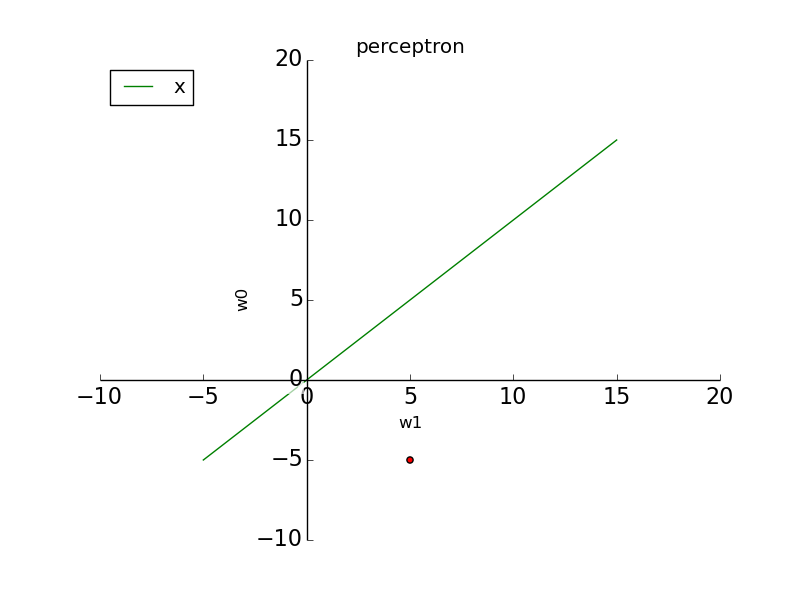
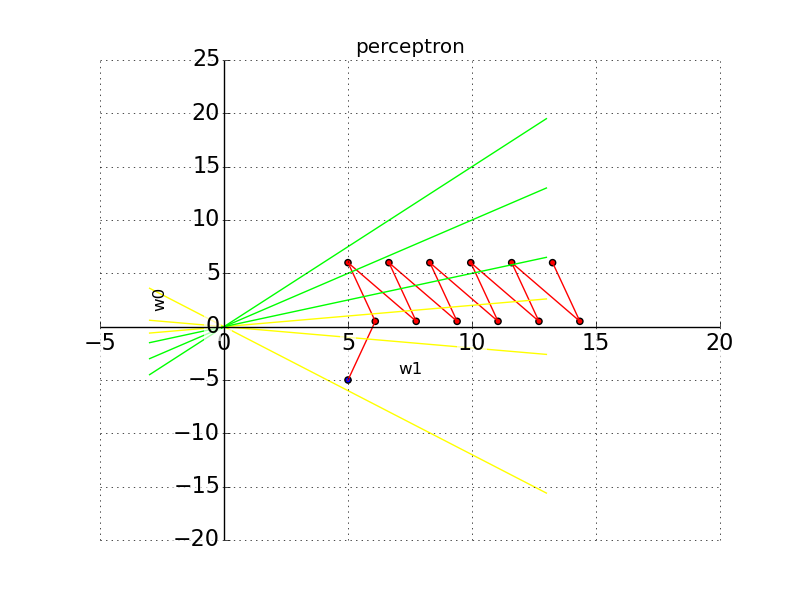
finish perceptron

diff --git a/perceptron/perceptron.py b/perceptron/perceptron.py
@@ -8,42 +8,65 @@ import numpy as np
 import matplotlib.pyplot as plt
 
 def g(X, W):
-    return W[0] + X * W[1]
+    v = 0
+    for i in range(len(W)):
+        v += W[i] * X[i]
+    return v
     
 if __name__ == '__main__':
     
-    X = [[1.2, 1], [0.2, 1], [-0.2, 1],
-        [-0.5, 2], [-1.0, 2], [-1.5, 2]]
+    # 初期値
+    # X : [x1, x2, class]
+    X = [[1.0, 1.2, 1], [1.0, 0.2, 1], [1.0, -0.2, 1],
+        [1.0, -0.5, 2], [1.0, -1.0, 2], [1.0, -1.5, 2]]
     W = [-5.0, 5.0] #W0, W1
-    row = 0.3
+    W_copy = list(W)
+    row = 5.5
+    canContinue = True
     
-    for i in range(len(X)):
-        g_value = g(X[i][0], W)
-        print(str(X[i]) + ":" + str(W) + ":" + str(g_value))
-        if g_value < 0 and X[i][1] == 1:
-            print("1→2")
+    
+    plt.scatter(W[1], W[0], c = 'blue')
+    
+    
+    while canContinue:
+        canContinue = False
+        for i in range(len(X)):
             
-        elif g_value > 0 and X[i][1] == 2:
-            print("2→1")
-        
-        
-        
-        
+            g_value = g(X[i], W)
+            print(str(X[i]) + ":" + str(W) + ":" + str(g_value))
+            if g_value < 0 and X[i][2] == 1:
+                print("1→2")
+                W[0] = W[0] + row * X[i][0]
+                W[1] = W[1] + row * X[i][1]
+                canContinue = True
+                plt.scatter(W[1], W[0], c = 'red', marker = "o")
+                print(W)
+                print(W_copy)
+                plt.plot([W_copy[1], W[1]], [W_copy[0], W[0]], color="red")
+                W_copy = list(W)
+            elif g_value > 0 and X[i][2] == 2:
+                print("2→1")
+                W[0] = W[0] - row * X[i][0]
+                W[1] = W[1] - row * X[i][1]
+                canContinue = True
+                plt.scatter(W[1], W[0], c = 'red', marker = "o")
+                plt.plot([W_copy[1], W[1]], [W_copy[0], W[0]], color="red")
+                W_copy = list(W)
     
-    x = np.linspace(-5, 15)
-    A = x
-    plt.plot(x, A, color="green", linewidth=1.0, linestyle="-", label="x")
-    plt.legend(loc='upper left')
+    # 解領域の表示
+    w1 = x = np.linspace(-3, 13)
+    for i in range(len(X)):
+        if X[i][2] == 1:
+            w0 = -X[i][1] * w1 
+            color = '#ffff00'
+        elif X[i][2] == 2:
+            w0 = -X[i][1] * w1
+            color = '#00ff00'
+        plt.plot(w1, w0, color, linewidth=1.0, linestyle="-")
     
     
     
-    plt.scatter(W[1], W[0], c = 'red', marker = "o")
-    
-    
-    
-    # メモリの設定
-    plt.xticks([-5, 0, +5, +10, +15])
-    plt.yticks([-5, 0, +5, +10, +15])
+    # plt.scatter(6, -3, c = 'red', marker = "o")
     
     # xy軸(spine)の移動
     ax = plt.gca()  # gca stands for 'get current axis'
@@ -56,6 +79,7 @@ if __name__ == '__main__':
     ax.set_title('perceptron')
     ax.set_xlabel('w1')
     ax.set_ylabel('w0')
+    ax.grid(True) #補助線
     
     # グラフとメモリの被りを半透明化
     for label in ax.get_xticklabels() + ax.get_yticklabels():
